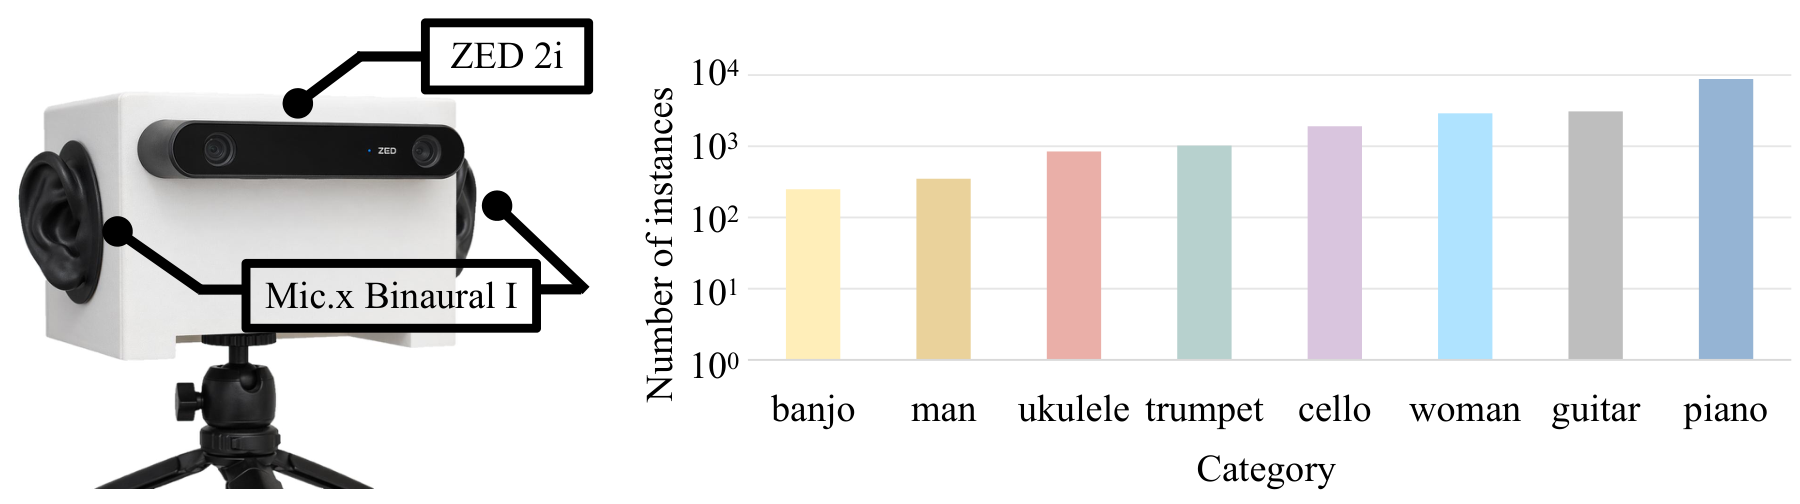
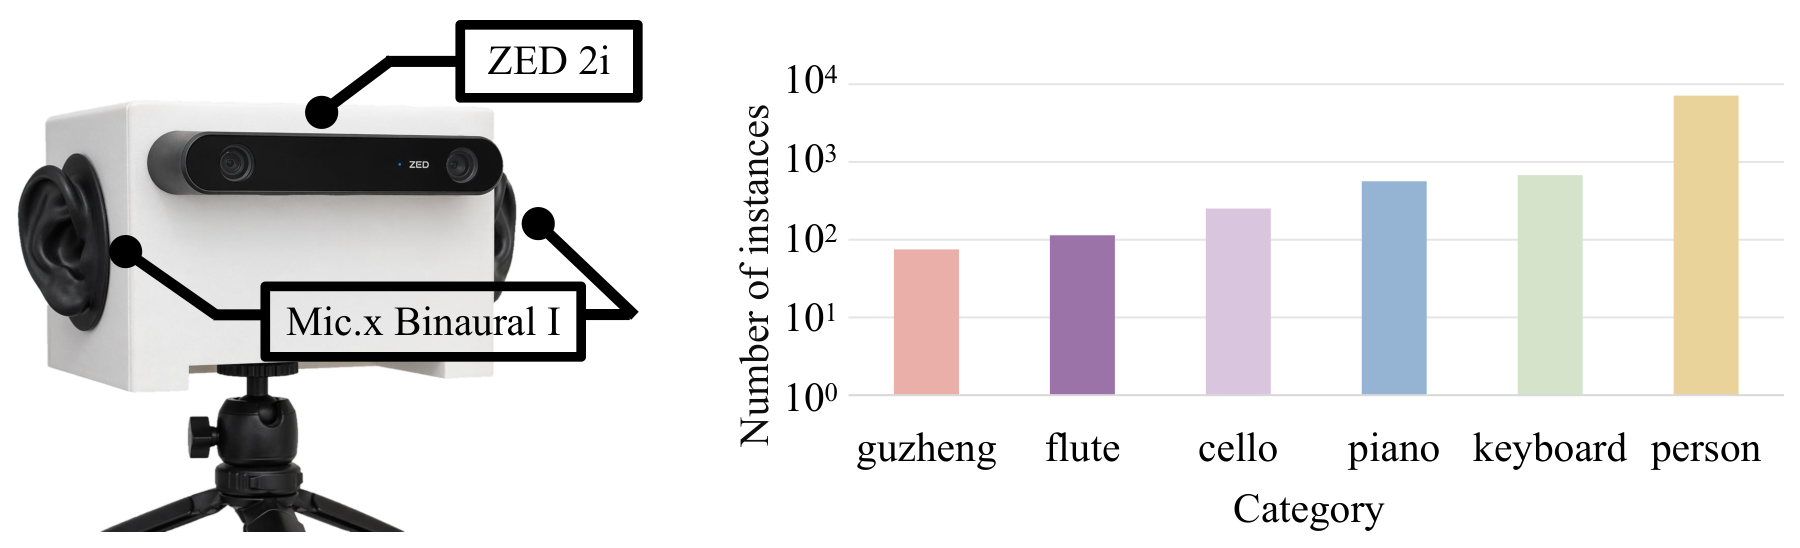
Update the dataset figure and project page link

diff --git a/index.html b/index.html
@@ -6,13 +6,13 @@
   <meta name="description" content="BiAVIS formulates binaural audio-visual instance segmentation. Synchronized binaural audio and video are used to segment sounding instances and resolve intra-class ambiguity.">
   <meta property="og:title" content="BiAVIS: Binaural Audio-Visual Instance Segmentation" />
   <meta property="og:description" content="A binaural audio-visual instance segmentation model and two benchmarks, FAIR-Play (annotated) and BiAVIS-Bench." />
-  <meta property="og:url" content="https://saijun-wang.github.io/BiAVIS/" />
-  <meta property="og:image" content="https://saijun-wang.github.io/BiAVIS/assets/introduction.png" />
+  <meta property="og:url" content="https://mias.group/BiAVIS/" />
+  <meta property="og:image" content="https://mias.group/BiAVIS/assets/introduction.png" />
   <meta property="og:image:width" content="1200" />
   <meta property="og:image:height" content="630" />
   <meta name="twitter:title" content="BiAVIS: Binaural Audio-Visual Instance Segmentation">
   <meta name="twitter:description" content="Segment sounding instances with synchronized binaural audio and video.">
-  <meta name="twitter:image" content="https://saijun-wang.github.io/BiAVIS/assets/introduction.png">
+  <meta name="twitter:image" content="https://mias.group/BiAVIS/assets/introduction.png">
   <meta name="twitter:card" content="summary_large_image">
   <meta name="keywords" content="BiAVIS, binaural audio, audio-visual segmentation, instance segmentation, sound source localization">
   <meta name="viewport" content="width=device-width, initial-scale=1">

diff --git a/README.md b/README.md
@@ -1,6 +1,6 @@
 # BiAVIS: Binaural Audio-Visual Instance Segmentation
 
-### [**Paper**](https://arxiv.org/abs/2609.32180) | **Video** | [**Project Page**](https://saijun-wang.github.io/BiAVIS/)
+### [**Paper**](https://arxiv.org/abs/2609.32180) | **Video** | [**Project Page**](https://mias.group/BiAVIS/)
 
 This is the official implementation for [BiAVIS](https://arxiv.org/abs/2609.32180):
 
